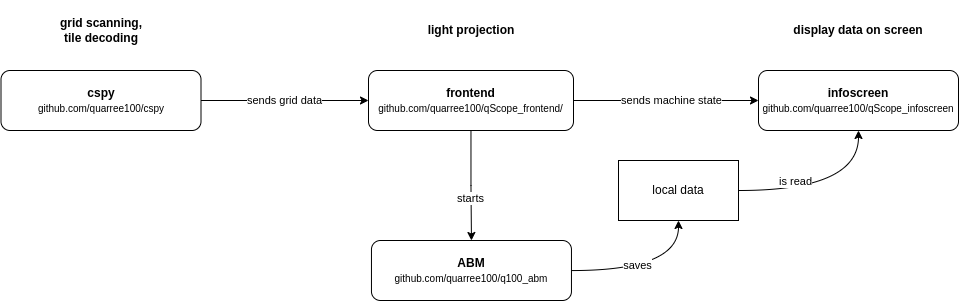
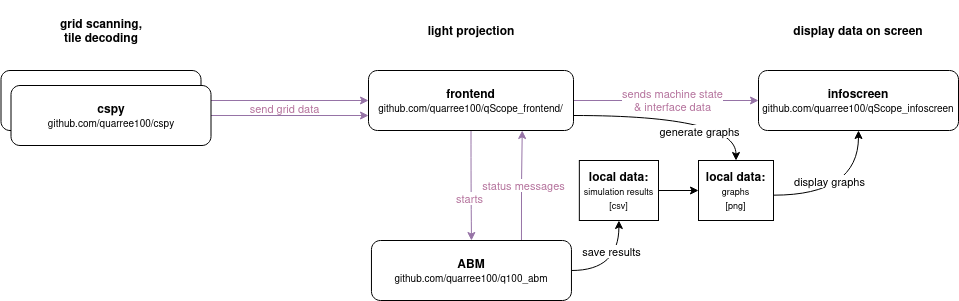
some tidying, ABM

diff --git a/source/ABM.rst b/source/ABM.rst
@@ -3,55 +3,25 @@
 ABM
 ###
 
+In `QUARREE100<quarree>` an agent-based model was developed using `GAMA <https://gama-platform.org/download>`_. The model itself is called `TREND model <https://www.github.com/quarree100/q100_abm>` (and can be found on GitHub). It models the behavior transformation of citizens involved in the district's heat transition.
+
+Usually GAMA provides a user-friendly GUI with interactive variable input possibilities and graphical outputs, but from within our :ref:`frontend<frontend_usage>`, it is run in "headless mode" - the simulation is run "invisibly" in the background.
 
 .. _installing_gama:
 
 Installing GAMA
 ***************
 
-You will have to have [GAMA](https://gama-platform.org/download) installed. It's best to choose the Version with JDK.
+`GAMA <https://gama-platform.org/download>`_ will be executed in a subprocess of the Q-Scope in :ref:`simulation mode <simulation_mode>`. It is recommended to install the Version with JDK.
 
-Understanding GAMA
-******************
-
-Simulation
-**********
-
-.. _simulation_outputs:
-
-Simulation Outputs
-------------------
-
-The :ref:`simulation setup algorithm<simulation_setup>` logs the simulation start time and defines the output path to export the results in the following manner:
-
-1. Each time the frontend software is started, a new output folder is created: ``qScope/data/outputs/output_YYYYmmdd_HH_MM_SS``
-
-.. code-block::
-  :caption: tree view of output folder
-
-    project qScope
-    └───data
-        └───outputs
-            └───output_YYYYmmdd_HH-MM-SS
-            |   └───connections
-            |   └───emissions
-            |   └───energy_prices
-            |   └───snapshot
-            └───buildings_clusters_YYYYmmdd_HH-MM-SS.csv
-            └───buildings_power_suppliers.csv
-            └───console-outputs-null.txt
-            └───simulation_parameters_YYYYmmdd_HH-MM-SS.xml
-            └───simulation_outputsnull.xml
-
-* ``output_[timestamp]``: contains simulation results of the specific :ref:`game iteration round<game_iterations>`
-
-TODO: list of csv files and some insights on these (data formats)
-
+.. attention:: We used GAMA 1.8.2 to develop the code; it might not necessarily work with different versions (we experienced some issues when switching between versions)!
 
 .. _gama_headless_mode:
 
-Starting GAMA in headless mode.
--------------------------------
+Starting GAMA in headless mode
+******************************
+
+Instead of starting GAMA with its GUI (like in every usual execution), it can be run from the terminal like this: ``/path/to/gama-headless.sh /path/to/simulation.xml /path/to/output_folder``.
 
 .. _simulation_xml:
 
@@ -83,12 +53,49 @@ The GAMA headless simulation takes an input xml file to initialize variables use
      </Simulation>
     </Experiment_plan>
 
-The final shell command that is used in a :ref:`subprocess of the frontend<simulation_setup>` looks like this: ``/opt/gama-platform/headless/gama-headless.sh /home/USER/qScope/data/outputs/output_20230704_13-51-36/simulation_parameters_20230704_13-51-36.xml /home/USER/qScope/data/outputs/output_20230704_13-51-36``,
+The final shell command that is used in a :ref:`subprocess of the frontend<simulation_setup>` looks like this: ``/opt/gama-platform/headless/gama-headless.sh /home/USER/qScope/data/outputs/output_20230704_13-51-36/simulation_parameters_20230704_13-51-36.xml /home/USER/qScope/data/outputs/output_20230704_13-51-36``
 
-or in short: ``/path/to/gama-headless.sh /path/to/simulation.xml /path/to/output_folder``
+Both xml file and the command are created in the Q-Scope's :ref:`simulation mode<simulation_mode>`. Another important file for the execution of the simulation is the ``buildings_clusters_YYYYmmdd_HH-MM-SS.csv`` file dropped to the simulation output folder (described below).
 
+.. csv-table::
+    :header: id,	spec_heat_consumption,	spec_power_consumption,	energy_source,	connection_to_heat_grid,	refurbished,	save_energy,	group
 
-TODO: buildings clusters are used in GAMA to define selected/focused buildings
+    7.14	158.35729	29.34483	Strom	False	2025	False	1
+    7.21	112.92122	14.60804	Gas	2025	False	False	0
+
+This information tells GAMA which buildings are selected have preset options should to be considered upon the start of the simulation.
+
+.. _simulation_outputs:
+
+Simulation Outputs
+******************
+
+The :ref:`simulation setup algorithm<simulation_setup>` logs the simulation start time and defines the output path to export the results in the following manner:
+
+1. Each time the frontend software is started, a new output folder is created: ``qScope/data/outputs/output_YYYYmmdd_HH_MM_SS``
+
+.. code-block::
+  :caption: tree view of output folder
+
+    project qScope
+    └───data
+        └───outputs
+            └───output_YYYYmmdd_HH-MM-SS
+            |   └───connections
+            |   └───emissions
+            |   └───energy_prices
+            |   └───snapshot
+            └───buildings_clusters_YYYYmmdd_HH-MM-SS.csv
+            └───buildings_power_suppliers.csv
+            └───console-outputs-null.txt
+            └───simulation_parameters_YYYYmmdd_HH-MM-SS.xml
+            └───simulation_outputsnull.xml
+
+* ``output_[timestamp]``: contains simulation results of the specific :ref:`game iteration round<game_iterations>`
+* ``connections`` contains ``connections_export.csv`` providing a list of the amount of agents connected to the heat grid (in percent and absolute)
+* in ``emissions``, there are building-specific timelines with calculated CO2-emissions and graphs, depicting these lists, :ref:`created in the frontend code<graphs>`.
+* ``energy_prices`` stores building-specific, caluclated energy prices as lists and graphs
+* ``snapshot`` is the place GAMA exports its native graphical output to.
 
 .. hint:: When wanting to use and display gama-exported-images on infoscreen, try this:
 

diff --git a/source/frontend/03_frontend_display.rst b/source/frontend/03_frontend_display.rst
@@ -47,7 +47,7 @@ The canvas is masked by a layer that defines the margins of the region of intere
     self.mask_points = [[0, 0], [85.5, 0], [85.5, 82], [0, 82], [0, -50],
                     [-50, -50], [-50, 200], [200, 200], [200, -50], [0, -50]]
 
-Finally, a seperate thread for UDP observation is started. Each table ("grid") has a seperate communication thread. More about how communication between tag decoder, frontend and infoscreen works in the :ref:`Communication <frontend_communication>` section.
+Finally, a seperate thread for UDP observation is started. Each table ("grid") has a seperate communication thread. More about how communication between tag decoder, frontend and infoscreen works in the :ref:`Communication <frontend_api>` section.
 
 .. _frontend_game_loop:
 
@@ -209,8 +209,8 @@ Graphs
 
 The frontend software creates graphs from the :ref:`simulation results<simulation_outputs>` using the matplotlib library. A toolkit is contained in ``q100viz/graphics/graphs.py``, providing the following functions:
 
-* ``export_individual_emissions``: exports specified column of csv-data-file for every iteration round to graph and exports png
-* ``export_individual_energy_expenses``: exports specified column of csv-data-file for every iteration round to graph and exports png
+* ``export_individual_emissions``: exports emissions from csv-data-file for every :ref:`iteration round<game_iterations>` to graph and exports png
+* ``export_individual_energy_expenses``: exports energy expenses column of csv-data-file for every iteration round to graph, prepending historic energy prices. Finally, exports png
 * ``export_default_graph``: exports default data to graph with gray curve
 * ``export_compared_emissions``: exports all data for selected group buildings into one graph for total data view
 * ``export_neighborhood_emissions_connections``: creates a bar plot for the total number of connections to the heat grid with an overlaying line plot of total emissions
@@ -224,8 +224,6 @@ and some helpful conversion functions used to get the right units:
 * ``grams_to_tons``
 * ``rgb_to_hex``
 * ``rgb_to_float_tuple``
-
-TODO: image of a graph and explain the lines, round iterations and pre-calculated grey lines
 
 .. attention::
   If :ref:`verbose mode<verbose_mode>` is activated, house addresses and absolte consumption data will be added to the graphs!

diff --git a/source/cspy/00_intro_install_usage.rst b/source/cspy/00_intro_install_usage.rst
@@ -26,7 +26,8 @@ Make sure you have your :ref:`camera drivers<realsense>` installed properly and 
 After that, the installation will hopefully just as easy as downloading `the decoder's repository <https://www.github.com/quarree100/cspy>`_ and doing ``pip3 install -r requirements.txt``.
 
 .. note::
-    You should copy the downloaded folder to be able to run two instances of the software, each using their own settings. TODO: this could be done in an easier way, using a startup flag to define which settings file to load from (and save to)
+    You should copy the downloaded folder to be able to run two instances of the software, each using their own settings.
+    .. TODO: this could be done in an easier way, using a startup flag to define which settings file to load from (and save to)
 
 Usage
 *****
@@ -105,7 +106,7 @@ Setting up the best detection conditions requires a lot of fine-tuning of bright
 
 * ``5``: change the lower end of the grey gradient overlay
 * ``6``: change the upper end of the grey gradient overlay
-*
+
 **3. sliders:**
 
 * ``j``: toggle active slider through list of available sliders
@@ -118,7 +119,7 @@ Setting up the best detection conditions requires a lot of fine-tuning of bright
 
 After the calibration is complete, the values can be saved hitting ``k`` and will be written to the opened :ref:`settings file<cspy_settings>`.
 
-TODO: merge ``feature_export_calibration`` and ``beautifications`` to ``main``
+.. TODO: merge ``feature_export_calibration`` and ``beautifications`` to ``main``
 
 .. hint:: Recommendation: place y-position of slider slightly ABOVE the slid, so you don't try to decode what's on the ceiling and other interferences with people.
 

diff --git a/source/frontend/04_frontend_interaction.rst b/source/frontend/04_frontend_interaction.rst
@@ -134,7 +134,7 @@ The position of the physical slider is read by the :ref:`tag decoder software<cs
 
 There is a dedicated `Slider` lass in ``q100viz/interaction/interface.py`` that can be used to create slider objects. Slider objects can store information on the active slider handle and the current slider value, corresponding the phyiscal slider on the table. There are variables to define the position of the slider on the projection area. This is important for the accurate projection of features on the very position of the slider. For this, `physical_diff_L` and `physical_diff_R` are variables describing the distance FROM the left margin of the area used for slider detection in cpsy, and the distance TO the right margin of the focused area in cspy (in cm), respectively. These are set in ``config.py`` and adapted to the sliders upon initialization.
 
- TODO: add image!
+..  TODO: add photo of slider and draw lines corresponding the different variables
 
 Slider Functions
 ================
@@ -147,4 +147,6 @@ Slider Functions
   #. Check if the slider value has changed (if yes, continue)
   #. According to the currently active handle, change the value of the active variable using the slider's value (and multiplicators for integers or thresholds for bools)
 
-* TODO: link to API overview section
+.. note:: You can get an overview on the UDP messaging system in the :ref:`frontend API section <frontend_API>`.
+
+.. TODO: flow chart of the frontend code, following an incoming message from cspy through the different functions.

diff --git a/source/setup.rst b/source/setup.rst
@@ -90,7 +90,7 @@ Data
 
 Q-Scope relies on a local data folder with GIS information on the map, the polygons and data on the houses that shall be displayed. The folder contains Shapefiles used to display both an aerial photograph (raster file) and polygon information for each houses to be able to interact with - provided as Shapefiles. Some additional, household-specific data in the form of csv files are provided, which can be lined to the polygons.
 
-TODO: provide simple working example data folder without sensitive data!
+.. TODO: provide simple working example data folder without sensitive data!
 
 Starting the software
 *********************
@@ -127,9 +127,4 @@ You can start each program individually, but be aware that, for the handshake be
     python3 run_q100viz.py
 
 
-There is a start script ``/home/qscope/start.sh`` on the Q-Scope computer that will run automatically upon startup (see below). In order to stop all the processes, ``/home/qscope/stop.sh`` can be executed.
-
-.. code-block:: bash
-    :caption: start.sh
-
-    TODO: contents of start.sh
+There is a start script ``/home/qscope/start.sh`` on the Q-Scope computer that will run automatically upon startup (see below). The script _frontend_startup_flags all application in the necessary order. In order to stop all the processes, ``/home/qscope/stop.sh`` can be executed.

diff --git a/source/quick_setup.rst b/source/quick_setup.rst
@@ -42,7 +42,7 @@ Setup Instructions
 #. execute ``python3 run_scanner.py`` and fine-tune the positioning of the corner points using TAB and WASD keys. Press ``k`` to save.
 #. Conduct the :ref:`calibration of the detection<cspy_detection_settings>` algorithm according to the light conditions.
 
-.. image:: ../img/cspy_all_windows.png
+.. image:: img/cspy_all_windows.png
     :align: center
     :alt: Ideal calibration situation with three windows showing the original RGB webcam stream, the resulting image after brightness and threshold adjustments, and a greyscale overlay to even out uneven light distribution.
 
@@ -50,4 +50,4 @@ In an ideal calibration (like in the image above), the **binary image** should s
 
 **8. Projection keystoning:** start the frontend projection via ``cd path/to/frontend && python3 run_q100viz.py``. Enter the keystone-calibration by pressing ``c``, put the viewports corners right on the tables edges, until no light leaks to the floor. Also, enable grid view via ``c`` - if the frontend grid matches the physical grid. Move the physical grid slightly, if needed and possible. Things should line up more or less precisely now.
 
-TODO: how to disassemble & transport
+.. TODO: how to disassemble & transport

diff --git a/source/API/infoscreen_API.rst b/source/API/infoscreen_API.rst
@@ -18,4 +18,4 @@ a message to switch modes should follow the following structure:
         "mode" : string # "buildings_interaction", "individual_data_view" or "total_data_view"
     }
 
-TODO: :ref:`messages received from the frontend<frontend_udp_message>` are processed using the following functions:
+.. TODO: :ref:`messages received from the frontend<frontend_udp_message>` are processed using the following functions:
